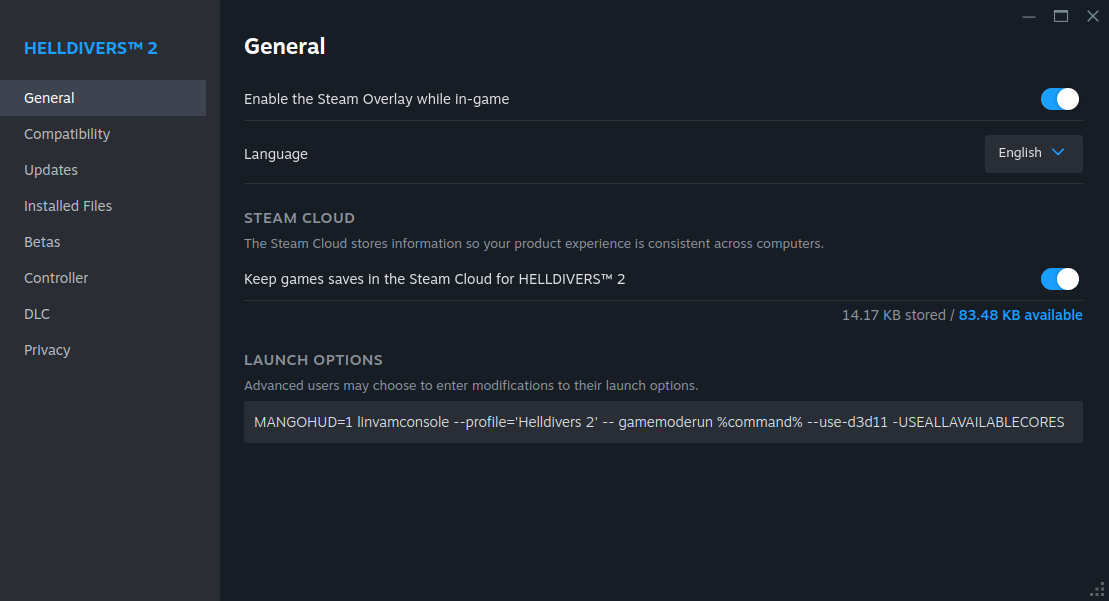
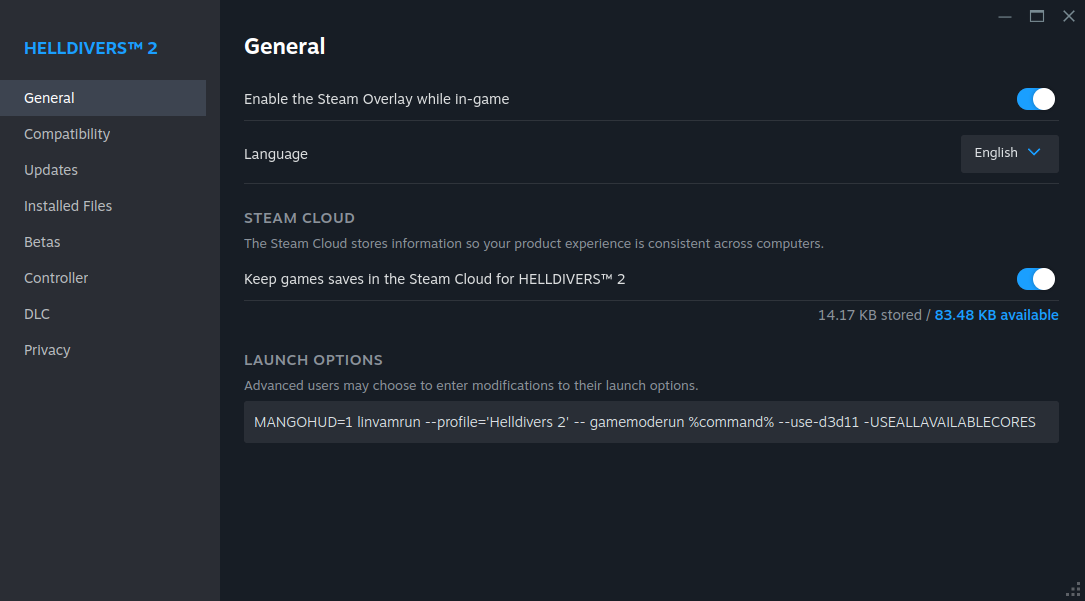
Change linvamconsole to linvamrun (#13)
* update scripts and README for change to linvamrun

* change py file and class to linvamrun

diff --git a/src/linvamrun.py b/src/linvamrun.py
@@ -9,7 +9,7 @@ import shlex
 from soundfiles import SoundFiles
 
 
-class LinVAMConsole:
+class LinVAMRun:
     def __init__(self):
         self.m_config = {
             'testEnv': 0,
@@ -23,15 +23,15 @@ class LinVAMConsole:
         self.m_profileExecutor = ProfileExecutor(None, self)
         profileName = self.m_config['profileName']
         if len(profileName) == 0:
-            print('LinVAM Console: No profile specified, not listening...')
+            print('linvamrun: No profile specified, not listening...')
             return
         profile = self.getProfileFromDatabase(profileName)
         if len(profile) > 0:
-            print('LinVAM Console: Listening for profile: ' + str(profile['name']))
+            print('linvamrun: Listening for profile: ' + str(profile['name']))
             self.m_profileExecutor.setProfile(profile)
             self.m_profileExecutor.setEnableListening(True)
         else:
-            print('LinVAM Console: Profile not found, not listening...')
+            print('linvamrun: Profile not found, not listening...')
 
     def handleArgs(self, args):
         if len(args) == 0:
@@ -45,14 +45,14 @@ class LinVAMConsole:
                 if arg == '-testEnv':
                     self.m_config['testEnv'] = 1
                 else:
-                    print('LinVAM Console: Unknown or unsupported argument')
+                    print('linvamrun: Unknown or unsupported argument')
 
     def signalHandler(self, signal, frame):
         self.shutDown()
 
     def shutDown(self):
         self.m_profileExecutor.setEnableListening(False)
-        print('LinVAM Console: Shutting down')
+        print('linvamrun: Shutting down')
 
     def getProfileFromDatabase(self, profileName):
         with open(self.getSettingsPath("profiles.json"), "r") as f:
@@ -65,7 +65,7 @@ class LinVAMConsole:
                     if name == profileName:
                         return w_profile
             except:
-                print("LinVAM Console: No profiles found in file")
+                print("linvamrun: No profiles found in file")
         return ''
 
     def getSettingsPath(self, setting):
@@ -79,7 +79,7 @@ class LinVAMConsole:
         return file
 
 if __name__ == "__main__":
-    linvamConsole = LinVAMConsole()
+    linvamrun = LinVAMRun()
     args = []
     runCommands = ''
     isArgs = True
@@ -96,19 +96,19 @@ if __name__ == "__main__":
                     runCommands = runCommands + ' '
                 runCommands = runCommands + '\'' + arg + '\''
             i += 1
-    linvamConsole.startListening(args)
+    linvamrun.startListening(args)
     if len(runCommands) > 0:
         argsForSubprocess = shlex.split(runCommands)
         try:
             result = subprocess.run(argsForSubprocess)
         except subprocess.CalledProcessError as e:
-            print('LinVAM Console: Command failed with return code {e.returncode}')
-        linvamConsole.shutDown()
+            print('linvamrun: Command failed with return code {e.returncode}')
+        linvamrun.shutDown()
         sys.exit()
     else:
-        print('LinVAM Console: Close the app with Ctrl + C')
-        signal.signal(signal.SIGTERM, linvamConsole.signalHandler)
-        signal.signal(signal.SIGHUP, linvamConsole.signalHandler)
-        signal.signal(signal.SIGINT, linvamConsole.signalHandler)
+        print('linvamrun: Close the app with Ctrl + C')
+        signal.signal(signal.SIGTERM, linvamrun.signalHandler)
+        signal.signal(signal.SIGHUP, linvamrun.signalHandler)
+        signal.signal(signal.SIGINT, linvamrun.signalHandler)
         signal.pause()
         sys.exit()

diff --git a/README.md b/README.md
@@ -101,7 +101,7 @@ Also, the install script adds ``YDOTOOL_SOCKET=/tmp/.ydotool_socket`` to ``/etc/
 Start LinVAM from your list of applications or by typing ``linvam`` in the terminal. This works on both X11 and Wayland, but prior ydotool setup is required, read [Configuring ydotool](https://github.com/stele95/LinVAM?tab=readme-ov-file#configuring-ydotool)
 
 ### Usage with Steam
-After setting up profiles in the GUI app, you can add ``linvamconsole --profile='Profile name' -- %command%`` to the game launch options for starting the console app for listening when opening games.
+After setting up profiles in the GUI app, you can add ``linvamrun --profile='Profile name' -- %command%`` to the game launch options for starting the console app for listening when opening games.
 
 ![Steam launch options](https://raw.githubusercontent.com/stele95/LinVAM/master/.img/steam.png)
 
